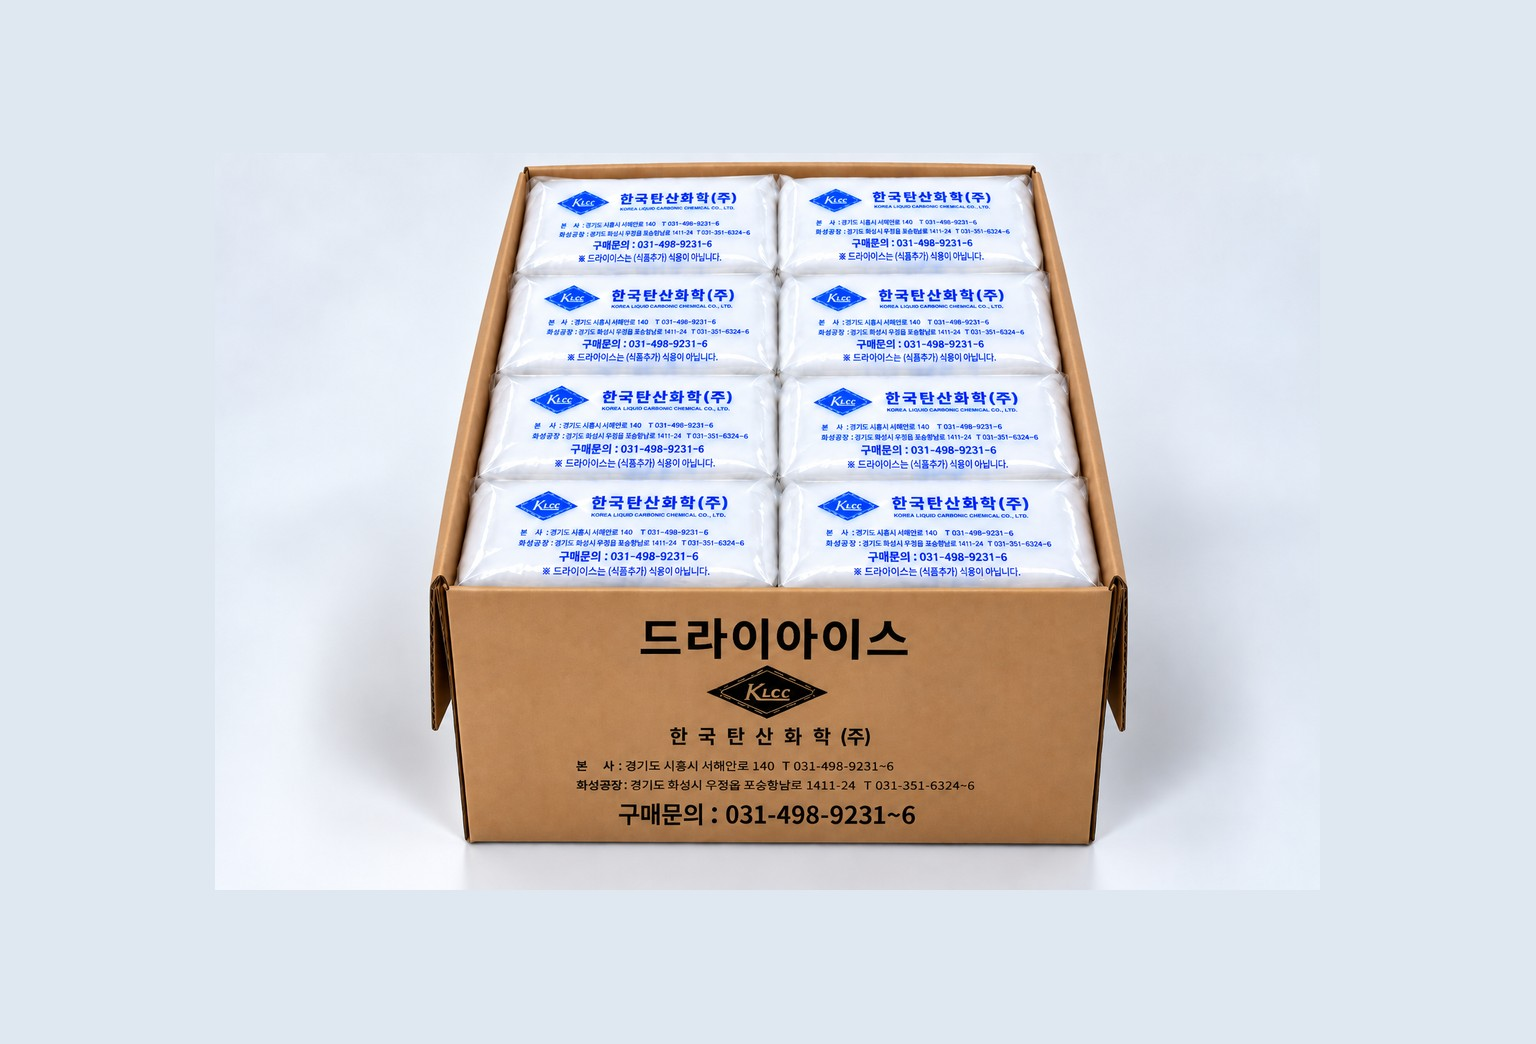
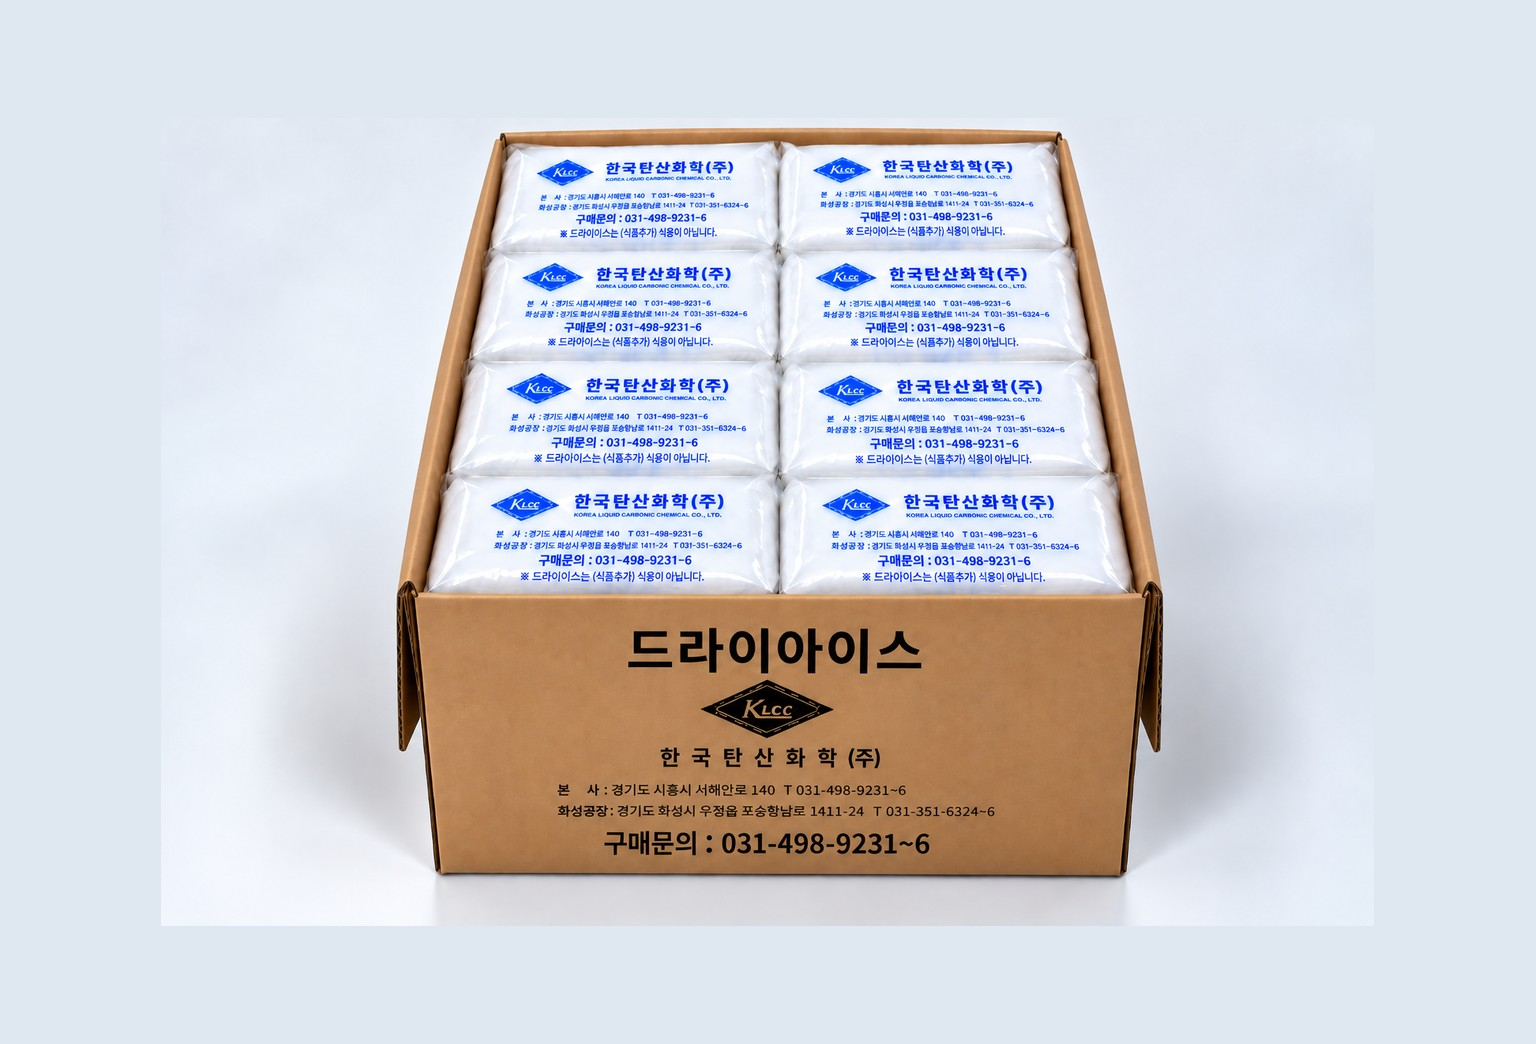
드라이아이스 48P 박스 사진 스케일 10% 확대(0.72→0.79). ice-box-pack ?v=20260911f

Changed region(s): [[0.1875, 0.1226, 0.8438, 0.8889], [0.25, 0.8582, 0.2812, 0.8889]]

diff --git a/products-ice.html b/products-ice.html
@@ -317,7 +317,7 @@
                   <h5 class="pkgspec__infotitle">포장 상세정보</h5>
                 </div>
                 <div class="pkgspec">
-                  <div class="pkgspec__photo"><img src="assets/images/site/ice-box-pack.jpg?v=20260911e" alt="한국탄산화학㈜ 48P 드라이아이스 박스 포장" loading="lazy"></div>
+                  <div class="pkgspec__photo"><img src="assets/images/site/ice-box-pack.jpg?v=20260911f" alt="한국탄산화학㈜ 48P 드라이아이스 박스 포장" loading="lazy"></div>
                   <div class="pkgspec__info">
                     <div class="pkgcard">
                     <ul class="pkgdetail">
